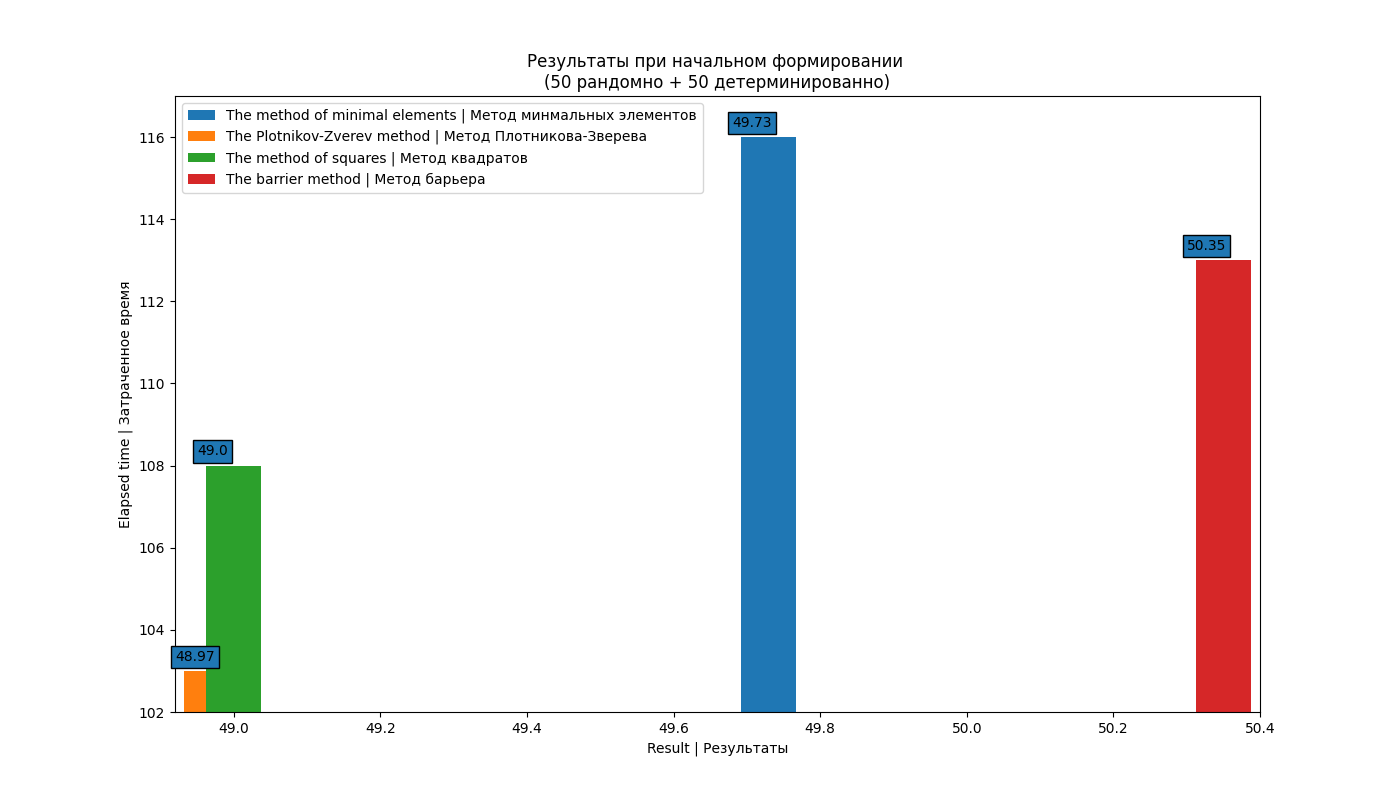
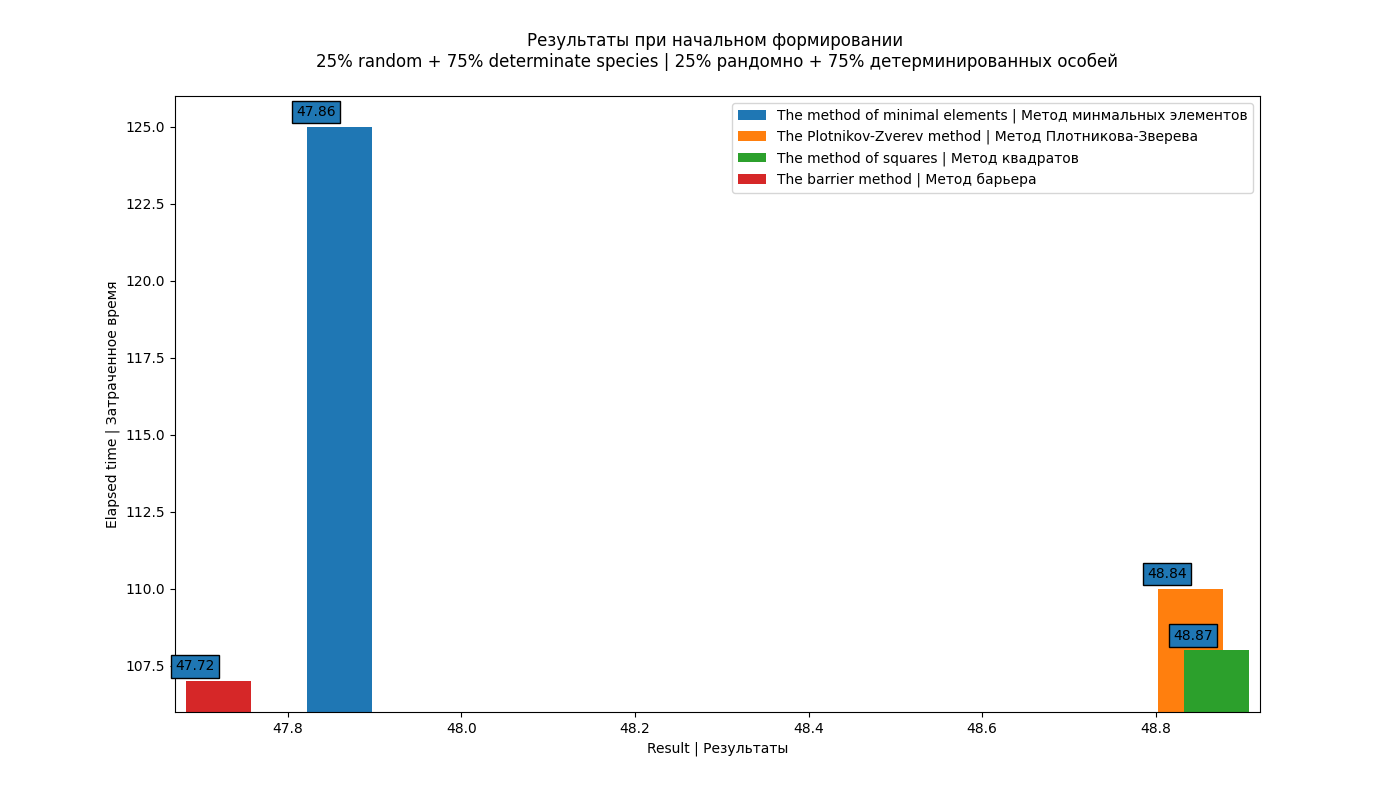
Histogram visualization update

diff --git a/diploma/experiments/experiments.py b/diploma/experiments/experiments.py
@@ -188,7 +188,27 @@ str_methods = (
     Fore.BLUE + "The barrier method | Метод барьера:" + Style.RESET_ALL
 )
 repeat = int(input(Fore.MAGENTA + "Number of repetitions of GA cycles | Количество повторов цикла ГА > " + Style.RESET_ALL))
+create_way = int(
+    input(
+        "Way of forming the initial generation | Способ формирования начального поколения:\n"
+        "100% random species | 100% рандомных особей(0)\n"
+        "50% random + 50% determinate species | 50% рандомно + 50% детерминированных особей(1)\n"
+        "25% random + 75% determinate species | 25% рандомно + 75% детерминированных особей(2)\n"
+        "75% random + 25% determinate species | 75% рандомно + 25% детерминированных особей(3)\n"
+        "> "
+    )
+)
+result_file.write("Way of forming | Способ формирования:")
+if create_way == 0:
+    result_file.write("100% random species | 100% рандомных особей\n\n")
+elif create_way == 1:
+    result_file.write("50% random + 50% determinate species | 50% рандомно + 50% детерминированных особей\n\n")
+elif create_way == 2:
+    result_file.write("25% random + 75% determinate species | 25% рандомно + 75% детерминированных особей\n\n")
+elif create_way == 3:
+    result_file.write("75% random + 25% determinate species | 75% рандомно + 25% детерминированных особей\n\n")
 repeat_str = Fore.LIGHTYELLOW_EX + str(repeat) + Style.RESET_ALL
+individuals = []
 print(f"Performing a study based on {repeat_str} iterations | Выполняем исследование на основе {repeat_str} итераций")
 # Генерация особей и последующее выполнение ГА
 for method, method_str in zip(methods, methods_strs):
@@ -197,8 +217,17 @@ for method, method_str in zip(methods, methods_strs):
     f = open(txt_file, 'w', encoding="utf-8")
     with tqdm(range(repeat), ncols=100, desc=f"{method_str}") as t:
         for _ in t:
-            individuals = [generate_individ(method, n, 0) for _ in range(z//2)]
-            [individuals.append(generate_individ(m, n, 1)) for _ in range(z//2)]
+            if create_way == 0:
+                [individuals.append(generate_individ(m, n, 1)) for _ in range(z)]
+            elif create_way == 1:
+                individuals = [generate_individ(method, n, 0) for _ in range(z//2)]
+                [individuals.append(generate_individ(m, n, 1)) for _ in range(z//2)]
+            elif create_way == 2:
+                individuals = [generate_individ(method, n, 0) for _ in range(z//4)]
+                [individuals.append(generate_individ(m, n, 1)) for _ in range((z//4) * 3)]
+            elif create_way == 3:
+                individuals = [generate_individ(method, n, 0) for _ in range((z//4) * 3)]
+                [individuals.append(generate_individ(m, n, 1)) for _ in range(z//4)]
 
             # Особи нулевого поколения (родители для будущего поколения):
             listMax = []

diff --git a/diploma/experiments/visualizing_histogram.py b/diploma/experiments/visualizing_histogram.py
@@ -4,7 +4,7 @@ from decimal import *
 import numpy as np
 from copy import deepcopy
 
-data, elapsed_time = [], []
+data, elapsed_time, way_of_forming = [], [], ''
 str_methods = (
     "The method of minimal elements | Метод минмальных элементов",
     "The Plotnikov-Zverev method | Метод Плотникова-Зверева",
@@ -13,9 +13,11 @@ str_methods = (
 )
 with open("result.txt", 'r', encoding="UTF-8") as file:
     file_data = file.readlines()
-    print(file_data)
-    for elem in file_data:
-        if 'Result | Результат: ' in elem:
+    # print(file_data)
+    for i, elem in enumerate(file_data):
+        if 'Way of forming | Способ формирования:' in elem:
+            way_of_forming = file_data[i + 1]
+        elif 'Result | Результат: ' in elem:
             number = float(elem[elem.index(":") + 1:elem.index("\n")])
             data.append(number)
         elif 'Elapsed time | Время работы: ' in elem:
@@ -32,6 +34,7 @@ for i, elem in enumerate(elapsed_time):
 # plt.yticks([int(elem[-2:]) for elem in elapsed_time])
 fig, ax = plt.subplots()
 fig.set_size_inches(14, 8)
+# fig.set_size_inches(8, 5.5)
 fig.canvas.set_window_title('Result')
 f1, f2, f3, f4 = [ax.bar(x, y, label=z, width=0.075) for x, y, z in zip(data, elapsed_time, str_methods)]
 # print(ax)
@@ -41,12 +44,12 @@ f1, f2, f3, f4 = [ax.bar(x, y, label=z, width=0.075) for x, y, z in zip(data, el
 # f2.set(width=wid, x=data[1], color='b')
 # f3.set(width=wid, x=data[2], color='m')
 # f4.set(width=wid, x=data[3], color='r')
-ax.legend()
+ax.legend(loc='best')
 # print(data)
-plt.title('Результаты при начальном формировании \n(50 рандомно + 50 детерминированно)')
+plt.title(f'Результаты при начальном формировании \n{way_of_forming}')
 # plt.xticks(data, data)
 plt.xlabel('Result | Результаты')
-[plt.text(x - 0.05, y + 0.25, x, bbox=dict(boxstyle="square")) for x, y in zip(data, elapsed_time)]
+[plt.text(x - 0.05, y + 0.35, x, bbox=dict(boxstyle="square")) for x, y in zip(data, elapsed_time)]
 elapsed_time = sorted(elapsed_time)
 data = sorted(data)
 print(elapsed_time, data)
